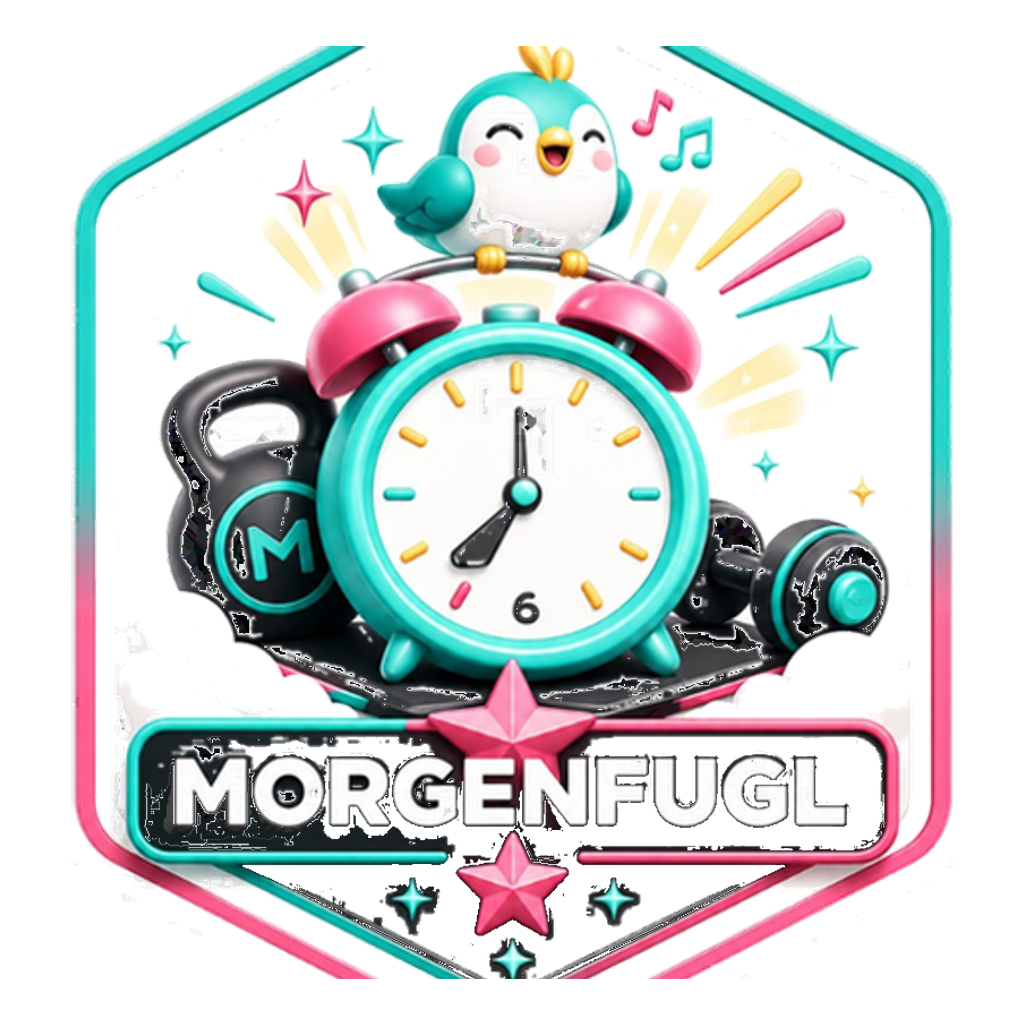
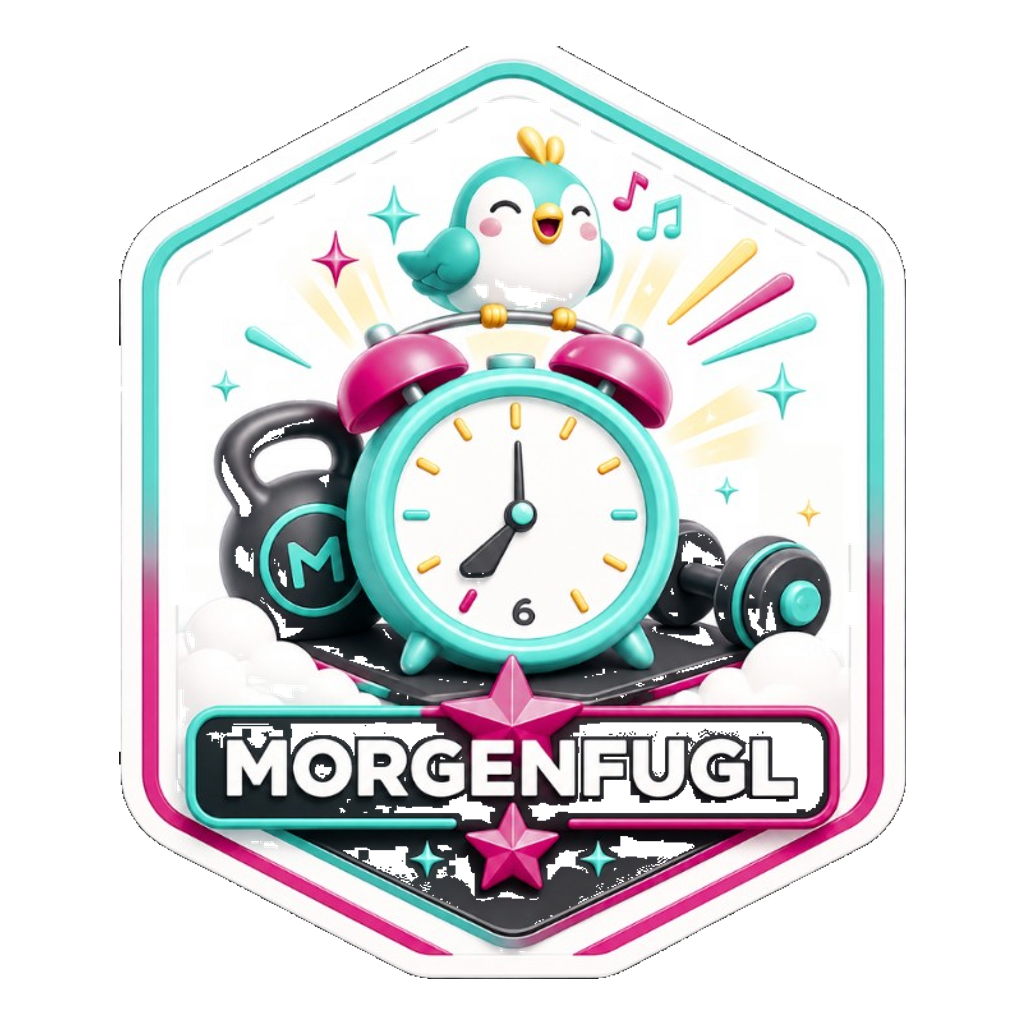
Update Morgenfugl badge artwork
Replace 40-morgenfugl.png with transparent background and bump cache version.

diff --git a/src/app/badgeAssets.ts b/src/app/badgeAssets.ts
@@ -1,5 +1,5 @@
 /** Felles badge-bilder (PNG 1024×1024, normalisert visuell størrelse). */
-export const BADGE_ASSET_VERSION = "22";
+export const BADGE_ASSET_VERSION = "23";
 
 export function badgeAssetUrl(path: string): string {
   const base = path.split("?")[0] || path;
